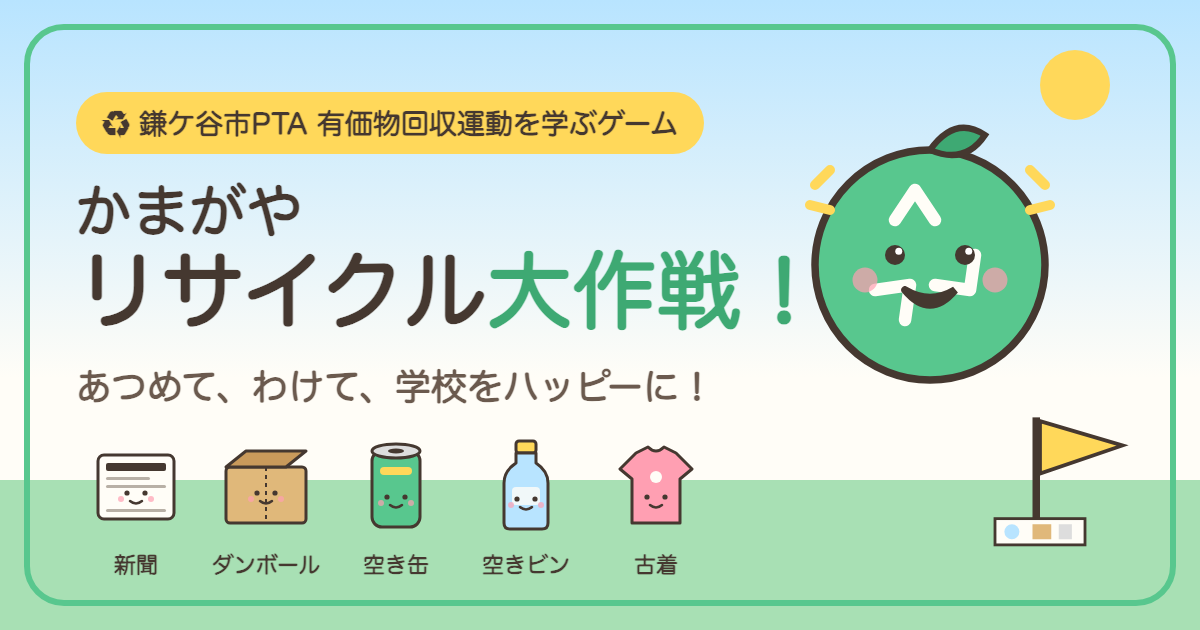
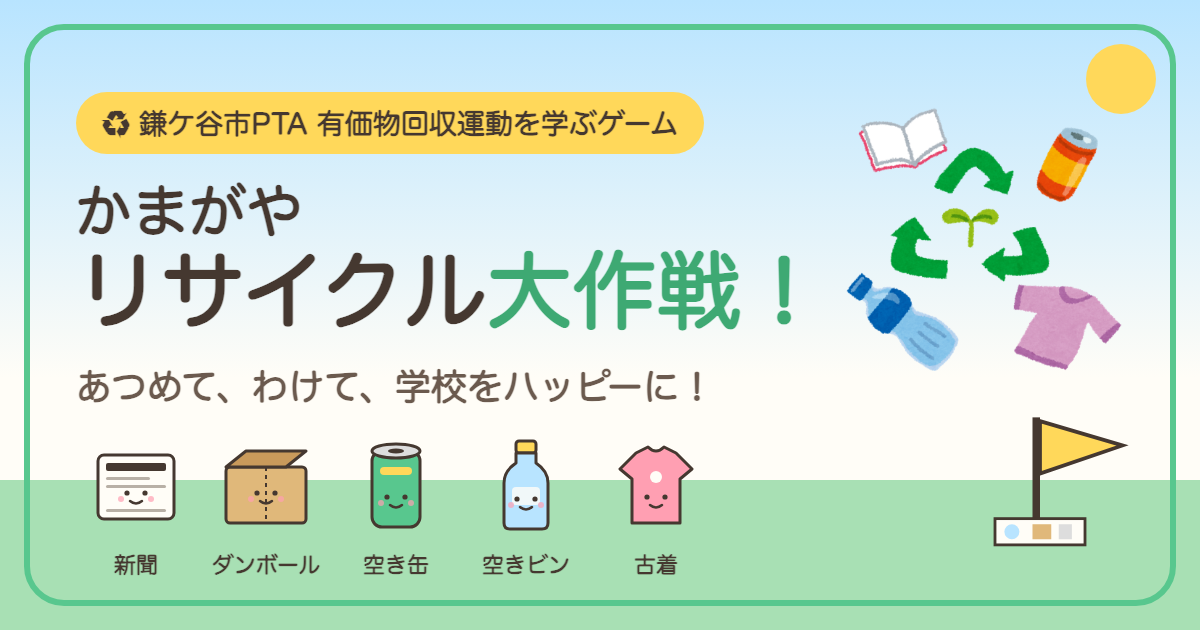
タイトル・クリア画面の画像をいらすとや「リサイクルのイメージのイラスト」に変更
- オリジナルキャラクター「リサ丸」の SVG を削除し、いらすとやのイラスト
  （public/images/irasutoya-recycle.png、元画像 610x587 を 400px に縮小）を表示
- OGP 画像も同じイラストで再生成
- 出典画面に作者・出典ページ・利用規約へのリンクと確認日を表示
- NOTICE.md / README / 使用メモ: いらすとやの利用条件（規約の範囲で無料、再配布不可、
  MIT License の対象外）を記載
- テスト: イラストの出典・規約・画像ファイルの存在

Changed region(s): [[0.6475, 0.0603, 0.9867, 0.6333]]

diff --git a/src/components/Mascot.tsx b/src/components/Mascot.tsx
@@ -1,56 +1,25 @@
 import { CHARACTER, isOfficialMascotAvailable, mascotName } from '../config/character'
 
 /**
- * 案内役キャラクター。
+ * タイトル・クリア画面の案内役の画像。
  * 市のごみ減量・リサイクル推進キャラクター「むだなしくん」の画像は、市の承諾を得るまで使わない。
- * 承諾前はオリジナルキャラクター「リサ丸（りさまる）」を表示する。
- * リサ丸はリサイクルマークをモチーフにした緑のまんまるキャラクターで、むだなしくんには似せていない。
+ * 承諾前はいらすとやの「リサイクルのイメージのイラスト」を表示する。
  */
 interface MascotProps {
-  mood?: 'happy' | 'think' | 'cheer'
   className?: string
 }
 
-export function Mascot({ mood = 'happy', className = 'size-32' }: MascotProps) {
-  if (isOfficialMascotAvailable()) {
-    return (
-      <img
-        src={`${import.meta.env.BASE_URL}${CHARACTER.official.imageSrc}`}
-        alt={CHARACTER.official.name}
-        className={`${className} object-contain`}
-        decoding="async"
-      />
-    )
-  }
-  return <RisamaruArt mood={mood} className={className} />
-}
-
-function RisamaruArt({ mood, className }: Required<MascotProps>) {
-  const mouth =
-    mood === 'cheer' ? 'M50 72 q10 12 20 0 q-10 6 -20 0' : mood === 'think' ? 'M52 74 q8 -2 16 2' : 'M50 72 q10 8 20 0'
+export function Mascot({ className = 'size-32' }: MascotProps) {
+  const src = isOfficialMascotAvailable() ? CHARACTER.official.imageSrc : CHARACTER.placeholder.imageSrc
   return (
-    <svg viewBox="0 0 120 120" className={className} role="img" aria-label={mascotName()}>
-      <circle cx="60" cy="62" r="46" fill="#58C78E" stroke="#453830" strokeWidth="3" />
-      {/* リサイクルの三つ矢 */}
-      <g fill="none" stroke="#FFFDF7" strokeWidth="5" strokeLinecap="round" strokeLinejoin="round">
-        <path d="M46 44 l8 -12 l8 12" />
-        <path d="M78 58 l-2 14 l-14 -2" />
-        <path d="M38 72 l14 -2 l-2 14" />
-      </g>
-      <circle cx="46" cy="58" r="4" fill="#453830" />
-      <circle cx="74" cy="58" r="4" fill="#453830" />
-      <circle cx="47.5" cy="56.5" r="1.4" fill="#fff" />
-      <circle cx="75.5" cy="56.5" r="1.4" fill="#fff" />
-      <path d={mouth} stroke="#453830" strokeWidth="3" fill={mood === 'cheer' ? '#FF9FB2' : 'none'} strokeLinecap="round" />
-      <circle cx="34" cy="68" r="5" fill="#FF9FB2" opacity="0.7" />
-      <circle cx="86" cy="68" r="5" fill="#FF9FB2" opacity="0.7" />
-      {mood === 'cheer' ? (
-        <g>
-          <path d="M14 30 l6 -6 M20 40 l-8 -2 M106 30 l-6 -6 M100 40 l8 -2" stroke="#FFD85A" strokeWidth="4" strokeLinecap="round" />
-        </g>
-      ) : null}
-      {/* 葉っぱ */}
-      <path d="M60 16 q10 -14 22 -6 q-8 12 -22 6" fill="#3EA973" stroke="#453830" strokeWidth="2.5" />
-    </svg>
+    <img
+      src={`${import.meta.env.BASE_URL}${src}`}
+      alt={mascotName()}
+      width={400}
+      height={385}
+      className={`${className} object-contain`}
+      decoding="async"
+      data-testid="mascot"
+    />
   )
 }

diff --git a/src/config/character.ts b/src/config/character.ts
@@ -1,11 +1,11 @@
 /**
- * 案内役キャラクターの設定。
+ * 案内役キャラクターとタイトル画像の設定。
  *
  * 鎌ケ谷市のごみ減量・リサイクル推進キャラクター「むだなしくん」は、
  * 市の公式ページで「デザインの無断使用・転載はできません」とされています。
  *   - 市のキャラクター: https://www.city.kamagaya.chiba.jp/sesakumidashi/shigaiyou_menu/character.html
  *   - むだなしファミリー大集合！: https://www.city.kamagaya.chiba.jp/kurashi-tetsuzuki/kankyo/kankyo-kouza/kamagaya_kkonline/112011301110a2.html
- * 市の承諾が得られるまでは imageSrc を null のままにし、オリジナルキャラクター「リサ丸」を表示します。
+ * 市の承諾が得られるまでは imageSrc を null のままにし、いらすとやのイラストを表示します。
  * 承諾後は public/images/ に提供された画像を加工せずに置き、imageSrc にそのパスを設定してください。
  * 手順は docs/mudanashikun-usage-notes.md を参照。
  */
@@ -22,10 +22,20 @@ export const CHARACTER = {
     /** 承諾時に求められた場合のクレジット表記 */
     credit: '鎌ケ谷市ごみ減量・リサイクル推進キャラクター むだなしくん',
   },
+  /**
+   * 承諾を得るまでタイトル・クリア画面に表示するイラスト（いらすとや）。
+   * いらすとやの利用規約（https://www.irasutoya.com/p/terms.html）の範囲で使用。
+   * 素材の再配布・販売は禁止されているため、このリポジトリの画像を素材として配布しないこと。
+   */
   placeholder: {
-    /** 承諾を得るまで表示するオリジナルキャラクター */
-    name: 'リサ丸',
-    description: 'リサイクルマークをモチーフにしたオリジナルキャラクター',
+    name: 'リサイクルのイメージのイラスト',
+    author: 'いらすとや',
+    pageUrl: 'https://www.irasutoya.com/2013/09/blog-post_7776.html',
+    termsUrl: 'https://www.irasutoya.com/p/terms.html',
+    /** 元画像（610×587px）を 400px に縮小したもの。BASE_URL からの相対 */
+    imageSrc: 'images/irasutoya-recycle.png',
+    description: 'リサイクルマークのまわりに本・缶・ペットボトル・服が描かれたイラスト',
+    verifiedAt: '2026-10-16',
   },
 } as const
 
@@ -34,7 +44,7 @@ export function isOfficialMascotAvailable(): boolean {
   return CHARACTER.official.officialImageApproved && CHARACTER.official.imageSrc !== null
 }
 
-/** 画面に表示する案内役の名前 */
+/** 画面に表示する画像の説明（alt） */
 export function mascotName(): string {
-  return isOfficialMascotAvailable() ? CHARACTER.official.name : CHARACTER.placeholder.name
+  return isOfficialMascotAvailable() ? CHARACTER.official.name : `${CHARACTER.placeholder.name}（${CHARACTER.placeholder.author}）`
 }

diff --git a/src/screens/SourcesScreen.tsx b/src/screens/SourcesScreen.tsx
@@ -81,8 +81,19 @@ export function SourcesScreen({ onBack, onClearData }: SourcesScreenProps) {
         <p data-testid="character-status">
           {officialApproved
             ? `市の承諾を得た画像を使用しています。${CHARACTER.official.credit}`
-            : `市の公式ページでキャラクターのデザインは無断使用・転載できないとされているため、承諾を得るまで${CHARACTER.official.name}の公式画像は使用していません。案内役は「${CHARACTER.placeholder.name}」（${CHARACTER.placeholder.description}）です。`}
+            : `市の公式ページでキャラクターのデザインは無断使用・転載できないとされているため、承諾を得るまで${CHARACTER.official.name}の公式画像は使用していません。`}
         </p>
+        {!officialApproved ? (
+          <p data-testid="illustration-credit">
+            タイトルとクリア画面のイラストは、
+            <ExternalLink href={CHARACTER.placeholder.pageUrl}>
+              {CHARACTER.placeholder.author}「{CHARACTER.placeholder.name}」
+            </ExternalLink>
+            を
+            <ExternalLink href={CHARACTER.placeholder.termsUrl}>利用規約</ExternalLink>
+            の範囲で使用しています（{CHARACTER.placeholder.description}。確認日 {CHARACTER.placeholder.verifiedAt}）。
+          </p>
+        ) : null}
         <p>鎌ケ谷市のマスコットキャラクター「かまたん」も、使用には市の承認申請が必要なため使用していません。</p>
         <SourceList sources={CHARACTER_SOURCE_IDS.map((id) => SOURCES[id])} testId="character-source-list" />
         <p className="text-xs text-eco-brown/70">
@@ -116,7 +127,7 @@ export function SourcesScreen({ onBack, onClearData }: SourcesScreenProps) {
       </Section>
 
       <Section title="ライセンス">
-        <p>アプリ本体は MIT License です。イラスト・効果音はすべて自作で、外部の素材は使用していません。出典と利用条件の一覧は、配布物に同梱の NOTICE.md に記載しています。</p>
+        <p>アプリ本体は MIT License です。タイトルとクリア画面のイラスト（いらすとや）を除き、イラスト・効果音は自作です。いらすとやの素材は規約により再配布できません。出典と利用条件の一覧は、配布物に同梱の NOTICE.md に記載しています。</p>
       </Section>
 
       <Button onClick={onBack} label="◀ もどる" data-testid="back" />

diff --git a/src/config/character.test.ts b/src/config/character.test.ts
@@ -8,9 +8,18 @@ describe('キャラクター設定', () => {
     else expect(imageSrc).toBeNull()
   })
 
-  it('未承諾のあいだはオリジナルキャラクターの名前を使う', () => {
+  it('未承諾のあいだは、いらすとやのイラストの説明を alt に使う', () => {
     expect(isOfficialMascotAvailable()).toBe(CHARACTER.official.officialImageApproved && CHARACTER.official.imageSrc !== null)
-    expect(mascotName()).toBe(isOfficialMascotAvailable() ? CHARACTER.official.name : CHARACTER.placeholder.name)
+    if (isOfficialMascotAvailable()) expect(mascotName()).toBe(CHARACTER.official.name)
+    else expect(mascotName()).toContain(CHARACTER.placeholder.author)
+  })
+
+  it('いらすとやのイラストは出典ページ・規約・確認日を持ち、画像が public にある', async () => {
+    const { existsSync } = await import('node:fs')
+    expect(CHARACTER.placeholder.pageUrl).toMatch(/^https:\/\/www\.irasutoya\.com\//)
+    expect(CHARACTER.placeholder.termsUrl).toMatch(/^https:\/\/www\.irasutoya\.com\//)
+    expect(CHARACTER.placeholder.verifiedAt).toMatch(/^\d{4}-\d{2}-\d{2}$/)
+    expect(existsSync(`public/${CHARACTER.placeholder.imageSrc}`)).toBe(true)
   })
 
   it('公式ページの URL は鎌ケ谷市の公式ドメイン', () => {

diff --git a/src/screens/TitleScreen.tsx b/src/screens/TitleScreen.tsx
@@ -22,7 +22,7 @@ export function TitleScreen({ settings, onToggle, progress, onStart, onStartRoom
     <Screen testId="screen-title" header={<SettingsBar settings={settings} onToggle={onToggle} />}>
       <div className="flex flex-1 flex-col items-center justify-center gap-5 text-center">
         <div className={animate ? 'animate-float' : ''}>
-          <Mascot mood="cheer" className="size-40" />
+          <Mascot className="size-44" />
         </div>
         <h1 className="text-balance text-4xl font-black leading-tight tracking-tight">
           かまがや

diff --git a/src/screens/ClearScreen.tsx b/src/screens/ClearScreen.tsx
@@ -30,7 +30,7 @@ export function ClearScreen({ points, progress, onSelectSchool, onRestart, onSta
     <Screen testId="screen-clear">
       <div className="flex flex-col items-center gap-2 text-center">
         <div className={animate ? 'animate-float' : ''}>
-          <Mascot mood="cheer" className="size-32" />
+          <Mascot className="size-36" />
         </div>
         <h2 className="text-3xl font-black">
           <Ruby text="🎊 大作戦[だいさくせん]クリア！" />

diff --git a/NOTICE.md b/NOTICE.md
@@ -32,20 +32,27 @@
   - 市のキャラクター: https://www.city.kamagaya.chiba.jp/sesakumidashi/shigaiyou_menu/character.html
   - むだなしファミリー大集合！: https://www.city.kamagaya.chiba.jp/kurashi-tetsuzuki/kankyo/kankyo-kouza/kamagaya_kkonline/112011301110a2.html
 - 市の公式ページには「キャラクター等のデザインの無断使用・転載はできません」と明記されています。公開されている申請手続きがないため、使用には市（クリーン推進課）への相談と承諾が必要と解釈しています。
-- そのため本アプリには**むだなしくんの公式画像を一切含めていません**。承諾を得るまでは、リサイクルマークをモチーフにしたオリジナルキャラクター「リサ丸」を案内役にしています。むだなしくんに似せたキャラクターも描いていません。
+- そのため本アプリには**むだなしくんの公式画像を一切含めていません**。承諾を得るまでは、いらすとやの「リサイクルのイメージのイラスト」をタイトル・クリア画面に表示しています（下記）。むだなしくんに似せたキャラクターも描いていません。
 - 手続きと差し替え方法は `docs/mudanashikun-usage-notes.md` を参照してください。
 
 ### かまたん（鎌ケ谷市マスコットキャラクター）
 
 - 「かまたん」のデザイン使用には市の承認申請が必要です（https://www.city.kamagaya.chiba.jp/kamatan/request/index.html）。本アプリでは使用していません。
 
-### リサ丸（オリジナル）
+### いらすとや「リサイクルのイメージのイラスト」
 
-- 本アプリのために描いたオリジナルキャラクターで、`src/components/Mascot.tsx` のインライン SVG です。アプリ本体と同じ MIT License で提供します。
+- 作者: いらすとや（みふねたかし）
+  https://www.irasutoya.com/2013/09/blog-post_7776.html
+- 利用規約: https://www.irasutoya.com/p/terms.html （確認日 2026-10-16）
+  - 規約の範囲内であれば商用・非商用を問わず無料で利用でき、編集・加工も可能。本アプリで使用しているいらすとやの素材は 1 点。
+  - 著作権は作者が保有し、**素材を主体としたコンテンツの再配布・販売は禁止**。
+- 本アプリでの使用: `public/images/irasutoya-recycle.png`（元画像 610×587px を 400px に縮小）。タイトル・クリア画面・リンク共有用の `public/og-image.png` に使用。
+- このリポジトリは MIT License ですが、**この画像ファイルはいらすとやの利用規約に従い、MIT License の対象外**です。素材として取り出して配布しないでください。
 
 ## イラスト・アイコン
 
-- 資源のイラスト、街、学校、トラック、紙吹雪は、すべて本アプリのために描いたインライン SVG です（`src/components/`）。外部の画像素材は使用していません。
+- 資源のイラスト、街、学校、部屋、トラック、紙吹雪は、すべて本アプリのために描いたインライン SVG です（`src/components/`）。
+- 外部の画像素材は、上記のいらすとやのイラスト 1 点のみです。
 - 絵文字はテキストとして使用し、端末のフォントで表示します。
 
 ## フォント
@@ -58,5 +65,5 @@
 
 ## アプリケーション本体
 
-- ライセンス: MIT（`LICENSE` を参照）
+- ライセンス: MIT（`LICENSE` を参照）。ただし `public/images/irasutoya-recycle.png` と、それを含む `public/og-image.png` は上記のとおりいらすとやの利用規約に従います。
 - 依存ライブラリ（React、Vite、Tailwind CSS など）のライセンスは `package.json` と各パッケージの配布物を参照してください。

diff --git a/docs/mudanashikun-usage-notes.md b/docs/mudanashikun-usage-notes.md
@@ -22,7 +22,7 @@
 ## 本アプリの対応
 
 - 公式画像は**使用していない**（`src/config/character.ts` の `imageSrc` は `null`、`officialImageApproved` は `false`）。
-- 案内役はリサイクルマークをモチーフにしたオリジナルキャラクター「リサ丸」（`src/components/Mascot.tsx`）。むだなしくんに似せた造形は避けている。
+- タイトル・クリア画面にはいらすとやの「リサイクルのイメージのイラスト」を表示している（`src/components/Mascot.tsx`、`NOTICE.md`）。むだなしくんに似せた造形のキャラクターは描いていない。
 - ゲーム内の「出典・このゲームについて」画面で、むだなしくんが市のごみ減量・リサイクル推進キャラクターであること、承諾を得るまで公式画像を使っていないことを説明し、市のキャラクターページへリンクしている。
 - 承諾を得る際に確認すること
   - 画像の提供形式と、加工（縮小・トリミング・背景透過）の可否
@@ -35,6 +35,6 @@
 
 1. 提供された画像を加工せず `public/images/mudanashikun.<拡張子>` に置く。
 2. `src/config/character.ts` の `imageSrc` にそのパス（`images/mudanashikun.<拡張子>`）を設定し、`officialImageApproved` を `true` にする。
-3. 案内役の名前・説明文は `CHARACTER.official` の値に自動で切り替わる。必要ならクレジット文言（`credit`）を更新する。
+3. 画像と説明文は `CHARACTER.official` の値に自動で切り替わる。必要ならクレジット文言（`credit`）を更新し、不要になったいらすとやの画像とその記載を削除する。
 4. `NOTICE.md` と README の「キャラクター」の記述を更新し、承諾の日付と条件を記録する。
 5. `npm test` で設定の整合性テスト（画像パスと承認フラグの組み合わせ）が通ることを確認する。
